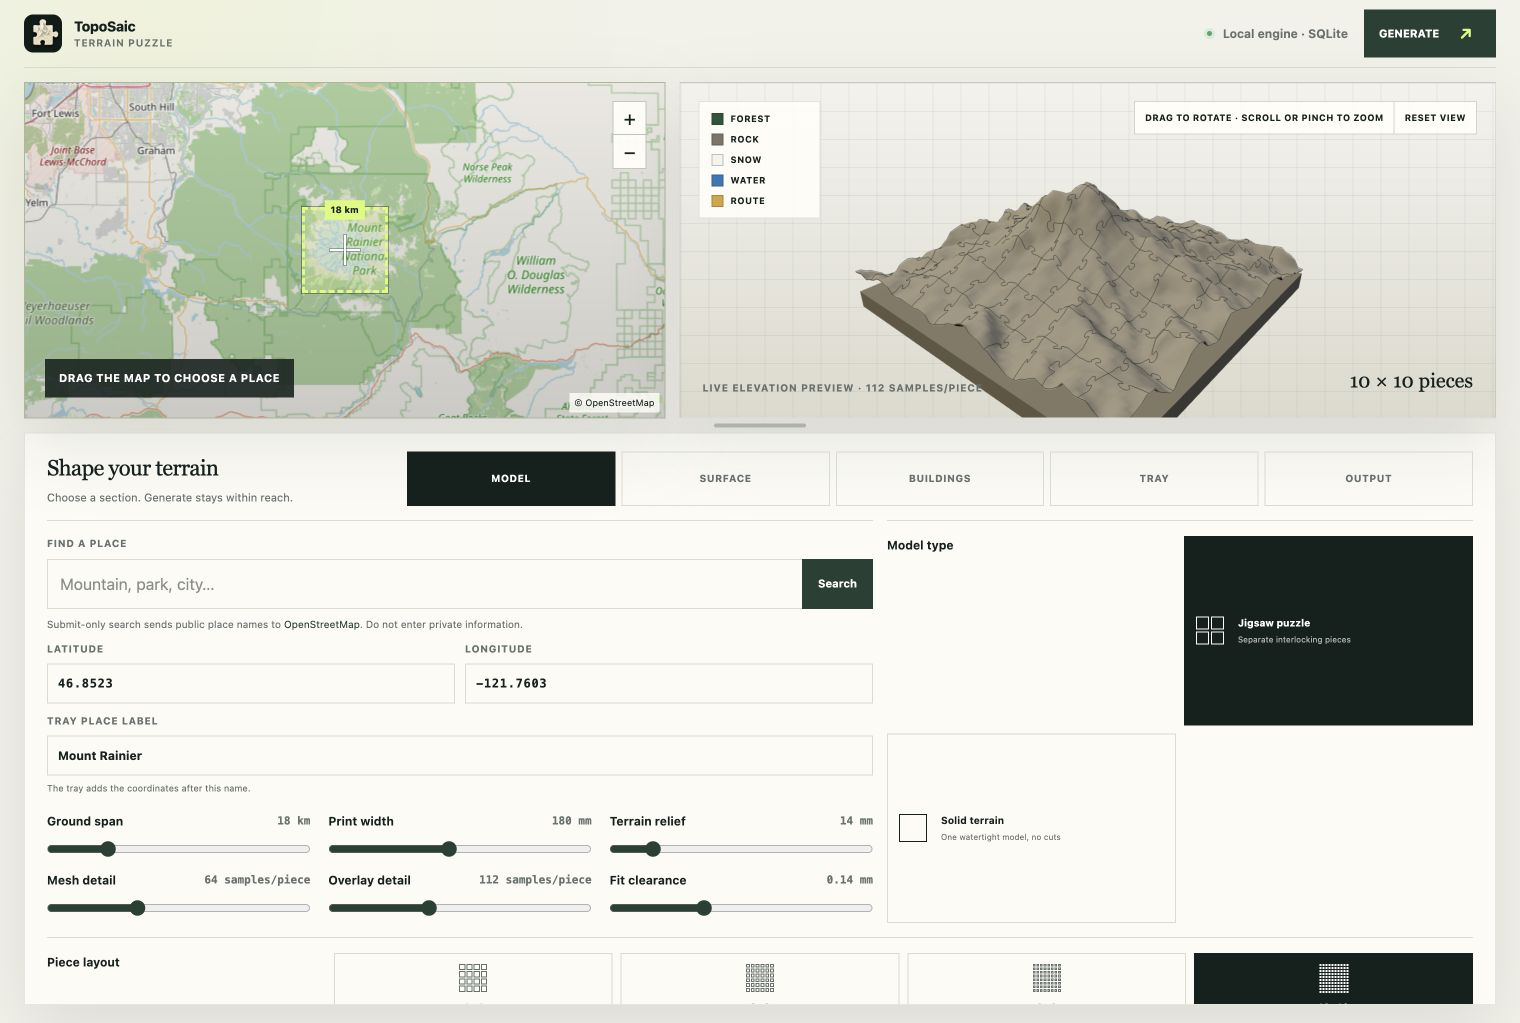
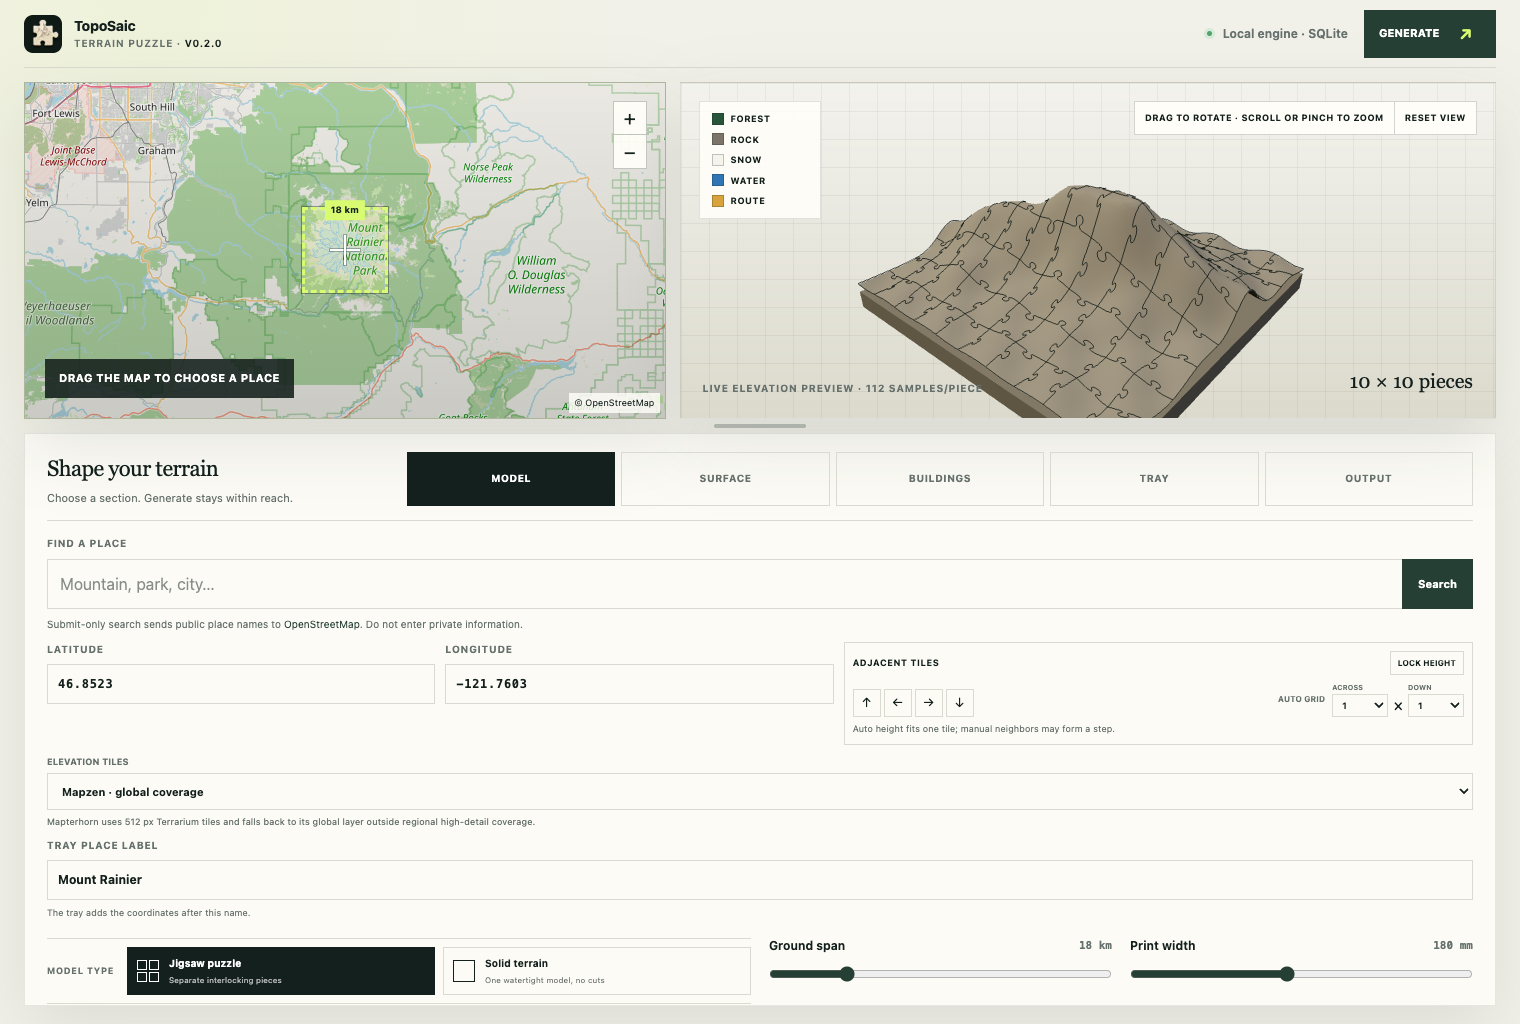
Sync landing page with v0.2 README: super-tile mode, Mapterhorn, notarized macOS, signed update notices, new screenshots

diff --git a/index.html b/index.html
@@ -60,8 +60,8 @@
     <p class="eyebrow" style="margin-top:1rem;">Free desktop app for Windows, macOS &amp; Linux · no setup, no terminal</p>
   </div>
   <figure class="hero-shot">
-    <img src="assets/toposaic-studio.png?v=2" alt="TopoSaic light workspace showing the Mount Rainier map, interactive 3D terrain puzzle preview, and model controls" width="1200">
-    <figcaption>Choose a place beside a live, rotatable preview, then shape the model below.</figcaption>
+    <img src="assets/toposaic-studio.png?v=3" alt="TopoSaic light workspace showing the Mount Rainier map, interactive 3D terrain puzzle preview, and model controls" width="1200">
+    <figcaption>Choose a place beside a live, rotatable preview, then shape the model below — map zoom stays synced to the ground span, and the workspace divider drags to fit.</figcaption>
   </figure>
 </section>
 
@@ -87,7 +87,7 @@
     <div class="card">
       <div class="icon">🌐</div>
       <h3>Worldwide elevation</h3>
-      <p>Reads Mapzen Terrarium tiles from the AWS Open Data registry. Elevation, ESA WorldCover, and OpenStreetMap inputs cache under your OS user cache with atomic writes.</p>
+      <p>Reads Mapzen Terrarium tiles from the AWS Open Data registry, with an optional Mapterhorn source for 512&nbsp;px regional detail up to zoom 17. All inputs cache under your OS user cache with atomic writes.</p>
     </div>
     <div class="card">
       <div class="icon">🛰️</div>
@@ -127,9 +127,36 @@
   <h2>Tune colors and layers without leaving the workspace.</h2>
   <p class="sub">Overlay detail is separate from the base terrain setting, so roads, buildings, water, and land-cover boundaries get a finer mesh without forcing it on plain terrain jobs.</p>
   <figure class="feature-shot">
-    <img src="assets/toposaic-surface-controls.png?v=2" alt="TopoSaic light workspace showing terrain colors, mapped water and road controls, and bridge structure choices" width="1600">
-    <figcaption>Tune print colors, mapped layers, road detail, and bridge structure in place.</figcaption>
+    <img src="assets/toposaic-surface-controls.png?v=3" alt="TopoSaic light workspace showing terrain colors, mapped water and road controls, and bridge structure choices" width="1600">
+    <figcaption>Tune print colors, mapped water, road width and height, dense-network thinning, and floating or supported bridges in place.</figcaption>
   </figure>
+</section>
+
+<section class="section" id="supertile">
+  <p class="eyebrow">Super-tile mode</p>
+  <h2>Bigger than your build plate.</h2>
+  <p class="sub">Export a grid of up to 12×12 print passes as one continuous terrain set. Every tile shares the same elevation datum and vertical scale — the first move locks the height frame, so the same real elevation prints at the same Z on every tile.</p>
+  <figure class="feature-shot">
+    <img src="assets/toposaic-model-controls.png" alt="TopoSaic model controls showing compact model choices and a four-by-three adjacent tile grid" width="1600">
+    <figcaption>Move by one tile with the compass buttons, or export a straight 4×3 mosaic under one shared height frame.</figcaption>
+  </figure>
+  <div class="features">
+    <div class="card">
+      <div class="icon">🧭</div>
+      <h3>Tile by tile, or all at once</h3>
+      <p>North, south, east, and west buttons step the selection one full tile; the auto grid exports every tile in one pass. Straight tile bounds keep the whole set aligned.</p>
+    </div>
+    <div class="card">
+      <div class="icon">🔗</div>
+      <h3>Interlocking edges</h3>
+      <p>Optional external tabs and sockets join shared edges between terrain tiles — the full set still keeps a flat outside border.</p>
+    </div>
+    <div class="card">
+      <div class="icon">🖼️</div>
+      <h3>Split trays</h3>
+      <p>The tray follows the grid: one outer frame, split into matching printable parts with open joined edges — or give each tile its own complete framed tray.</p>
+    </div>
+  </div>
 </section>
 
 <section class="section" id="export">
@@ -152,6 +179,10 @@
       <p>Its own watertight STL and color 3MF: a flat well of smooth equal-height contour inlays, with the place name, latitude, and longitude raised on the front lip in the bundled Atkinson Hyperlegible font.</p>
     </div>
   </div>
+  <figure class="feature-shot">
+    <img src="assets/toposaic-3mf-bambu-studio.jpg" alt="A generated Mount Rainier color 3MF opened in Bambu Studio" width="1600">
+    <figcaption>Straight into the slicer: the exported 3MF keeps the puzzle pieces and their forest, rock, snow, water, road, and building materials ready for a color print.</figcaption>
+  </figure>
 </section>
 
 <section class="section" id="download">
@@ -162,12 +193,12 @@
     <div class="card">
       <h3>🪟 Windows x64</h3>
       <p class="plat">.exe setup · .msi installer</p>
-      <p>Uses the Universal CRT that Windows 10 and 11 include — no Visual C++ Redistributable. Fetches Microsoft's WebView2 bootstrapper only if the system lacks WebView2.</p>
+      <p>Uses the Universal CRT that Windows 10 and 11 include — no Visual C++ Redistributable. GUI subsystem, so no console window ever opens; fetches Microsoft's WebView2 bootstrapper only if the system lacks WebView2.</p>
     </div>
     <div class="card">
       <h3>🍎 macOS (Apple silicon)</h3>
       <p class="plat">.dmg disk image · .app.zip</p>
-      <p>Ships with an ad-hoc signature for now and is not notarized.</p>
+      <p>Signed with a Developer ID certificate, Apple-notarized, with stapled tickets — opens without Gatekeeper warnings.</p>
     </div>
     <div class="card">
       <h3>🐧 Linux x86-64</h3>
@@ -177,7 +208,7 @@
 ./TopoSaic-*-linux-x86_64.AppImage</code></pre>
     </div>
   </div>
-  <p class="callout info">The desktop app keeps SQLite and generated jobs in its standard application-data directory, and opens a native <strong>Save As</strong> dialog for every file — it never drops files into Downloads without asking.</p>
+  <p class="callout info">The desktop app keeps SQLite and generated jobs in its standard application-data directory, and opens a native <strong>Save As</strong> dialog for every file — it never drops files into Downloads without asking. On launch it checks for a newer release and shows a signed update notice; updates install in the app, and the check sends no project or location data.</p>
 </section>
 
 <section class="section" id="developers">
@@ -207,7 +238,7 @@
     <div class="attrib">
       <h4>Data &amp; attribution</h4>
       <p>TopoSaic draws on public map data. Publicly shared prints, images, and files must keep the data-source credits recorded in each manifest, or place them near the work.</p>
-      <p>Elevation: <a href="https://github.com/tilezen/joerd/blob/master/docs/attribution.md">Mapzen Terrain Tiles</a> · Land cover: <a href="https://esa-worldcover.org/en/data-access">ESA WorldCover</a> · Roads, water, buildings, and place search: <a href="https://www.openstreetmap.org/copyright">OpenStreetMap</a> via Overpass &amp; Nominatim.</p>
+      <p>Elevation: <a href="https://github.com/tilezen/joerd/blob/master/docs/attribution.md">Mapzen Terrain Tiles</a> &amp; <a href="https://mapterhorn.com/attribution/">Mapterhorn</a> · Land cover: <a href="https://esa-worldcover.org/en/data-access">ESA WorldCover</a> · Roads, water, buildings, and place search: <a href="https://www.openstreetmap.org/copyright">OpenStreetMap</a> via Overpass &amp; Nominatim.</p>
     </div>
     <div class="foot-links">
       <h4>TopoSaic</h4>